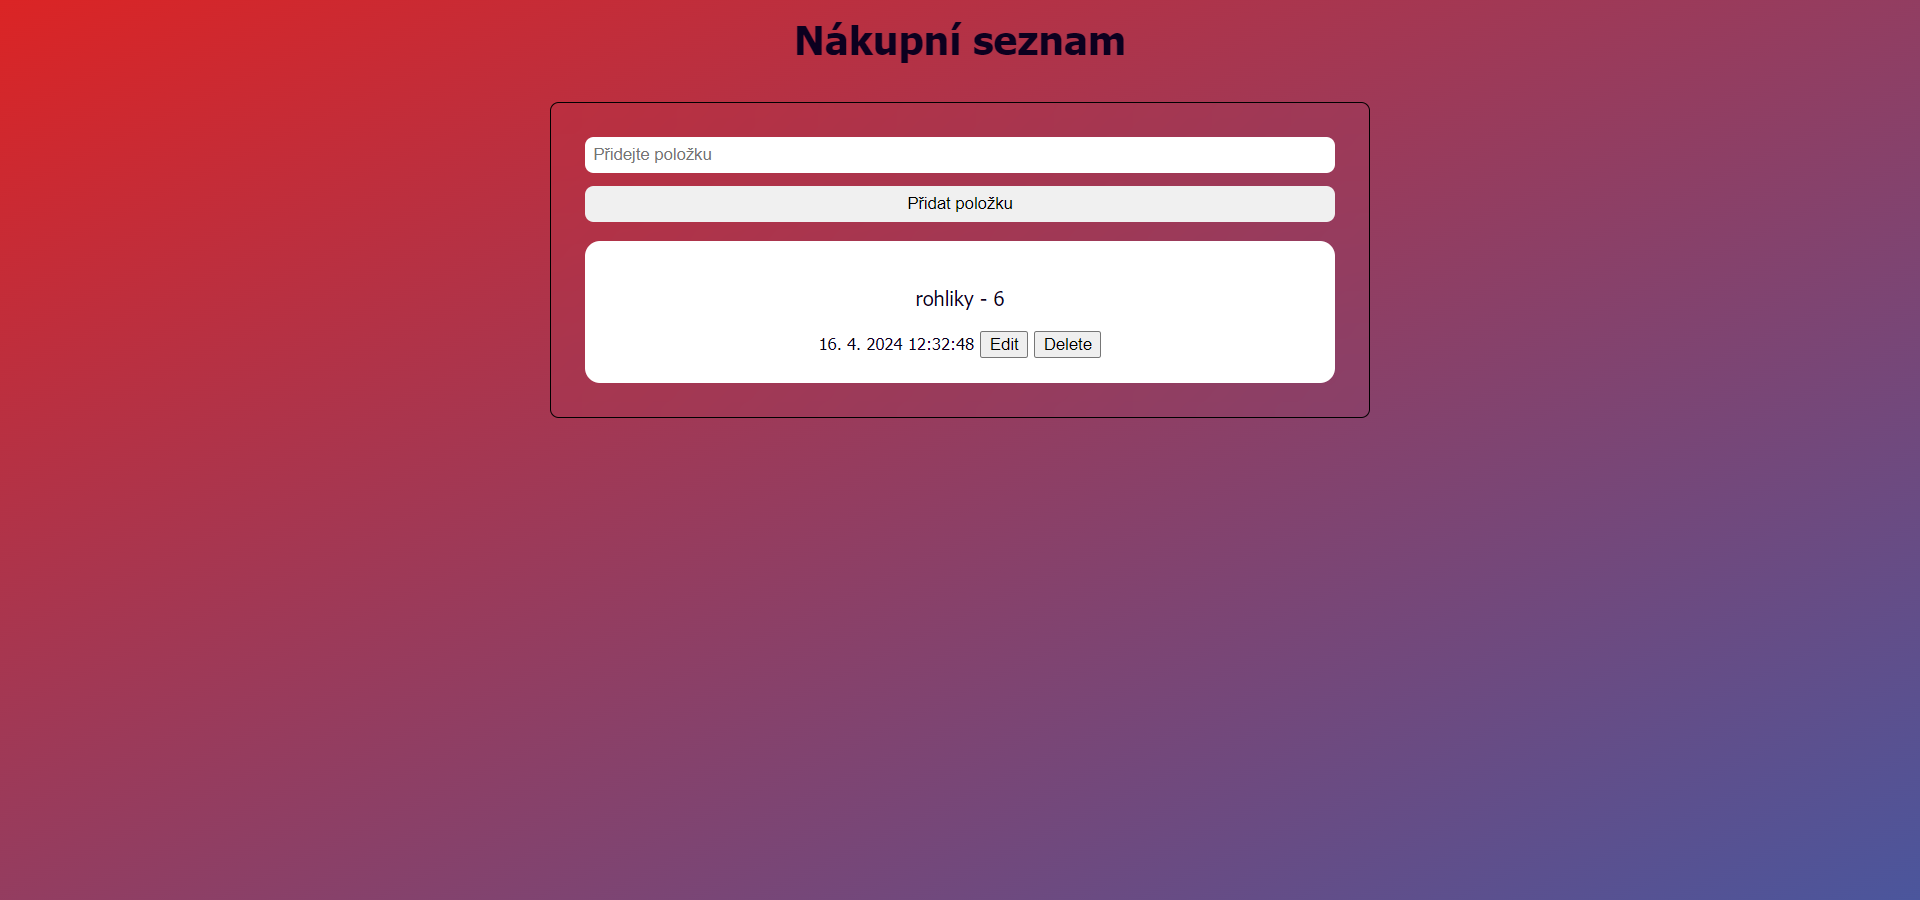
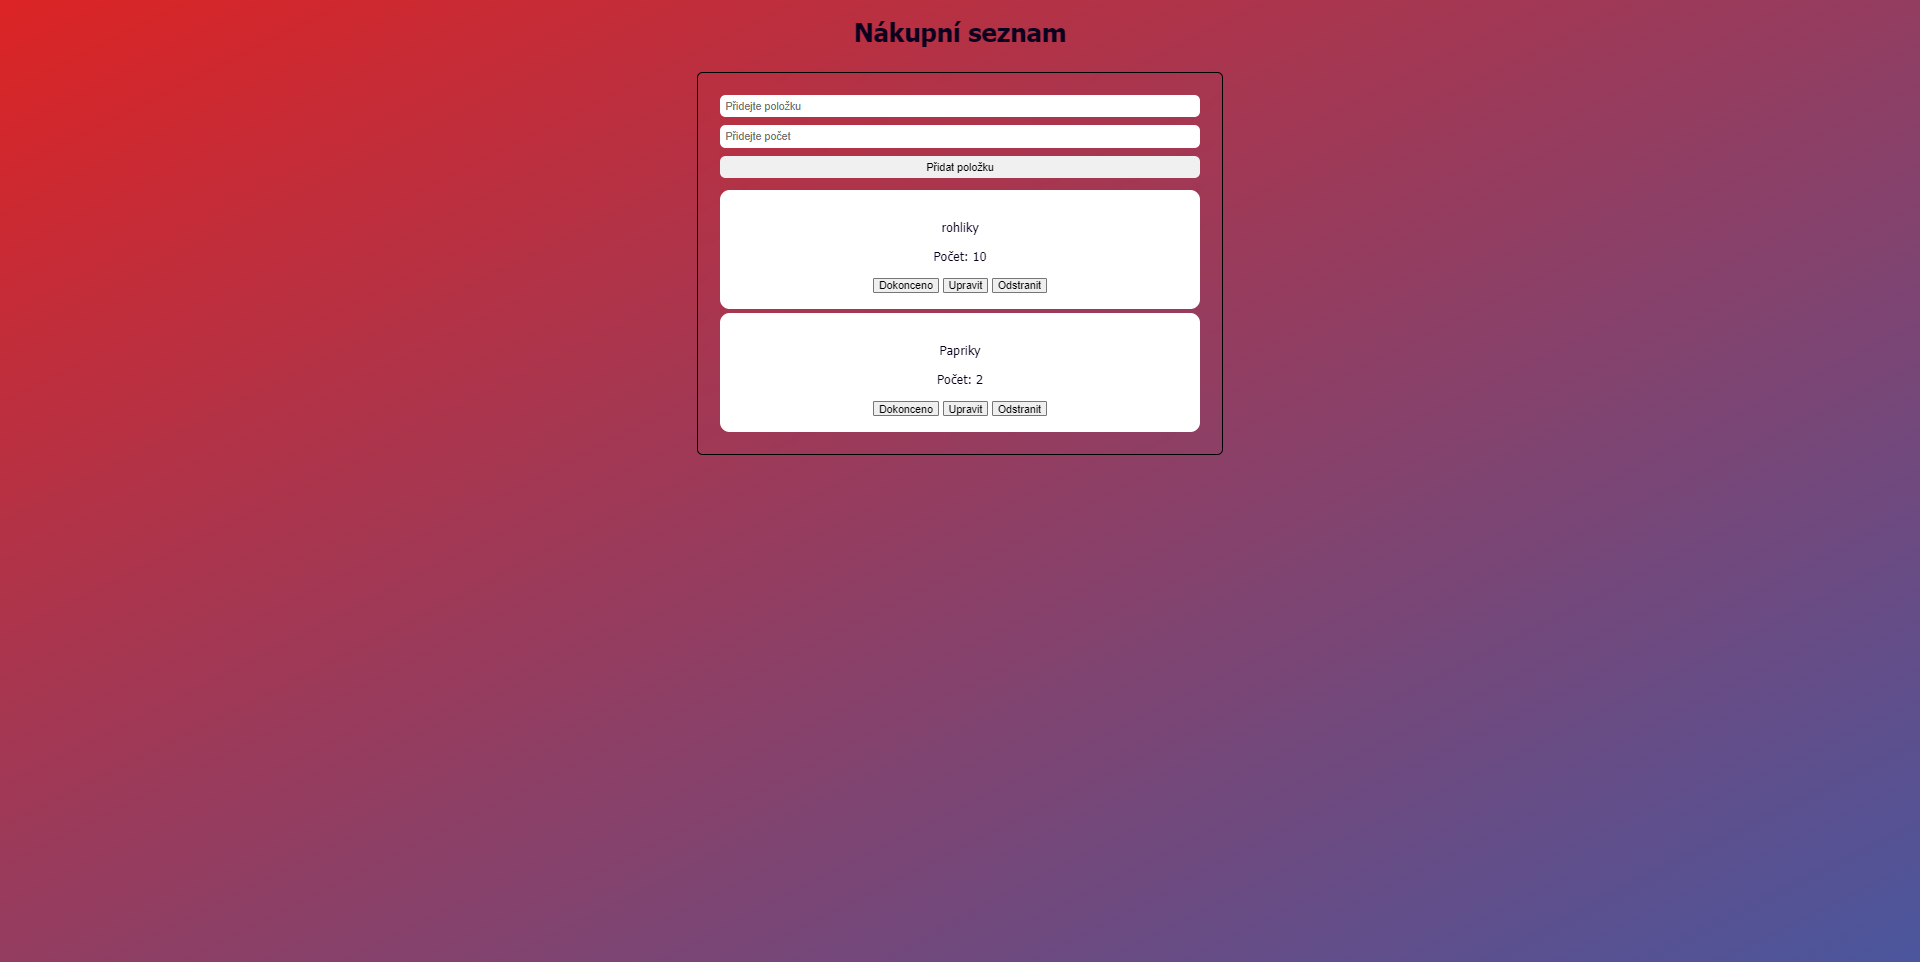
Add files via upload

Changed region(s): [[0.2812, 0.0, 0.7188, 0.4667]]

diff --git a/script.js b/script.js
@@ -1,5 +1,6 @@
 document.addEventListener("DOMContentLoaded", function () {
     const noteInput = document.getElementById("noteInput");
+    const countInput = document.getElementById("countInput");
     const saveNoteBtn = document.getElementById("saveBtn");
     const notesContainer = document.getElementById("notesContainer");
     
@@ -7,15 +8,16 @@ document.addEventListener("DOMContentLoaded", function () {
     
     saveNoteBtn.addEventListener("click", function () {
         const noteText = noteInput.value.trim();
+        const noteCount = countInput.value.trim();
         if (noteText !== "") {
-            saveNoteToLocalStorage(noteText);
+            saveNoteToLocalStorage(noteText, noteCount);
             noteInput.value = "";
         }
     });
     
-    function saveNoteToLocalStorage(text) {
+    function saveNoteToLocalStorage(text, count) {
         const timestamp = new Date().toLocaleString();
-        const note = { text: text, timestamp: timestamp };
+        const note = { text: text, count: count };
         let notes = JSON.parse(localStorage.getItem("notes")) || [];
         notes.push(note);
         localStorage.setItem("notes", JSON.stringify(notes));
@@ -30,13 +32,19 @@ document.addEventListener("DOMContentLoaded", function () {
             noteElement.classList.add("note");
             noteElement.innerHTML = `
                 <p>${note.text}</p>
-                <small>${note.timestamp}</small>
-                <button onclick="editNote(${index})">Edit</button>
-                <button onclick="deleteNote(${index})">Delete</button>
+                <p>Počet: ${note.count}</p>
+                <button onclick="checkNote(${index})">Dokonceno</button>
+                <button onclick="editNote(${index})">Upravit</button>
+                <button onclick="deleteNote(${index})">Odstranit</button>
             `;
             notesContainer.appendChild(noteElement);
         });
     }
+
+    window.checkNote = function (index) {
+        const notes = JSON.parse(localStorage.getItem("notes")) || [];
+        notes.style.backgroundColor = "green";
+    };
 
     window.editNote = function (index) {
         const notes = JSON.parse(localStorage.getItem("notes")) || [];

diff --git a/index.html b/index.html
@@ -11,6 +11,7 @@
     <div class="mainPage">
         <div class="container">
             <input type="text" id="noteInput" placeholder="Přidejte položku">
+            <input type="number" id="countInput" placeholder="Přidejte počet">
             <button id="saveBtn">Přidat položku</button>
             <div id="notesContainer"></div>
         </div>

diff --git a/ui.css b/ui.css
@@ -44,7 +44,7 @@ input, #saveBtn {
 }
 
 
-#noteInput, #saveBtn {
+#noteInput, #countInput, #saveBtn {
     padding: 6.5px;
     border-radius: 7px;
 }
